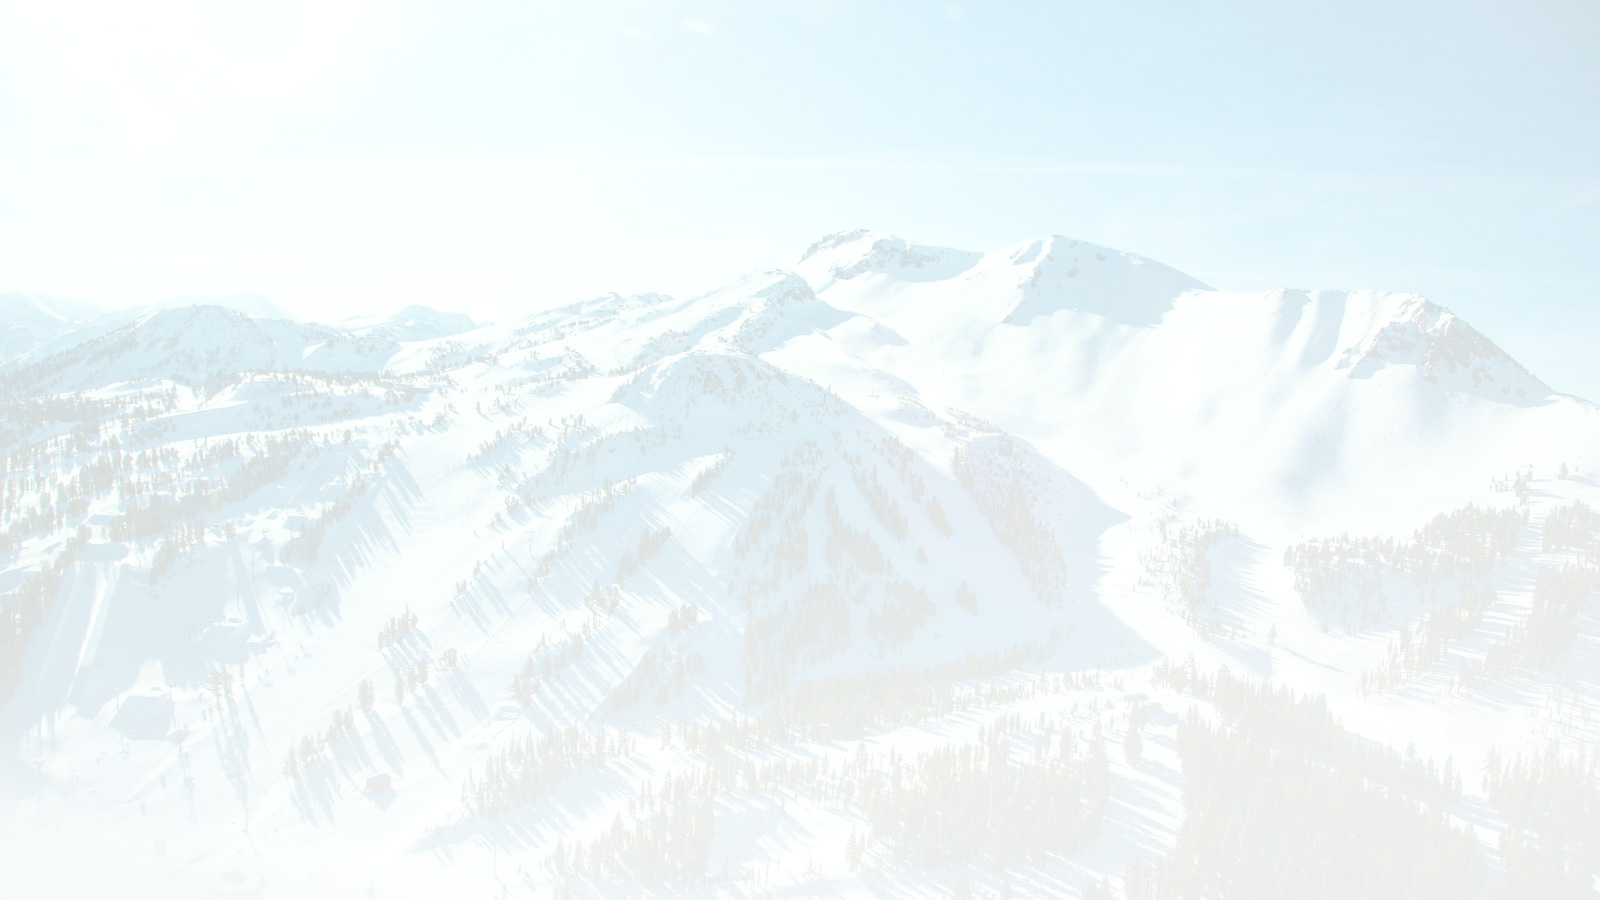
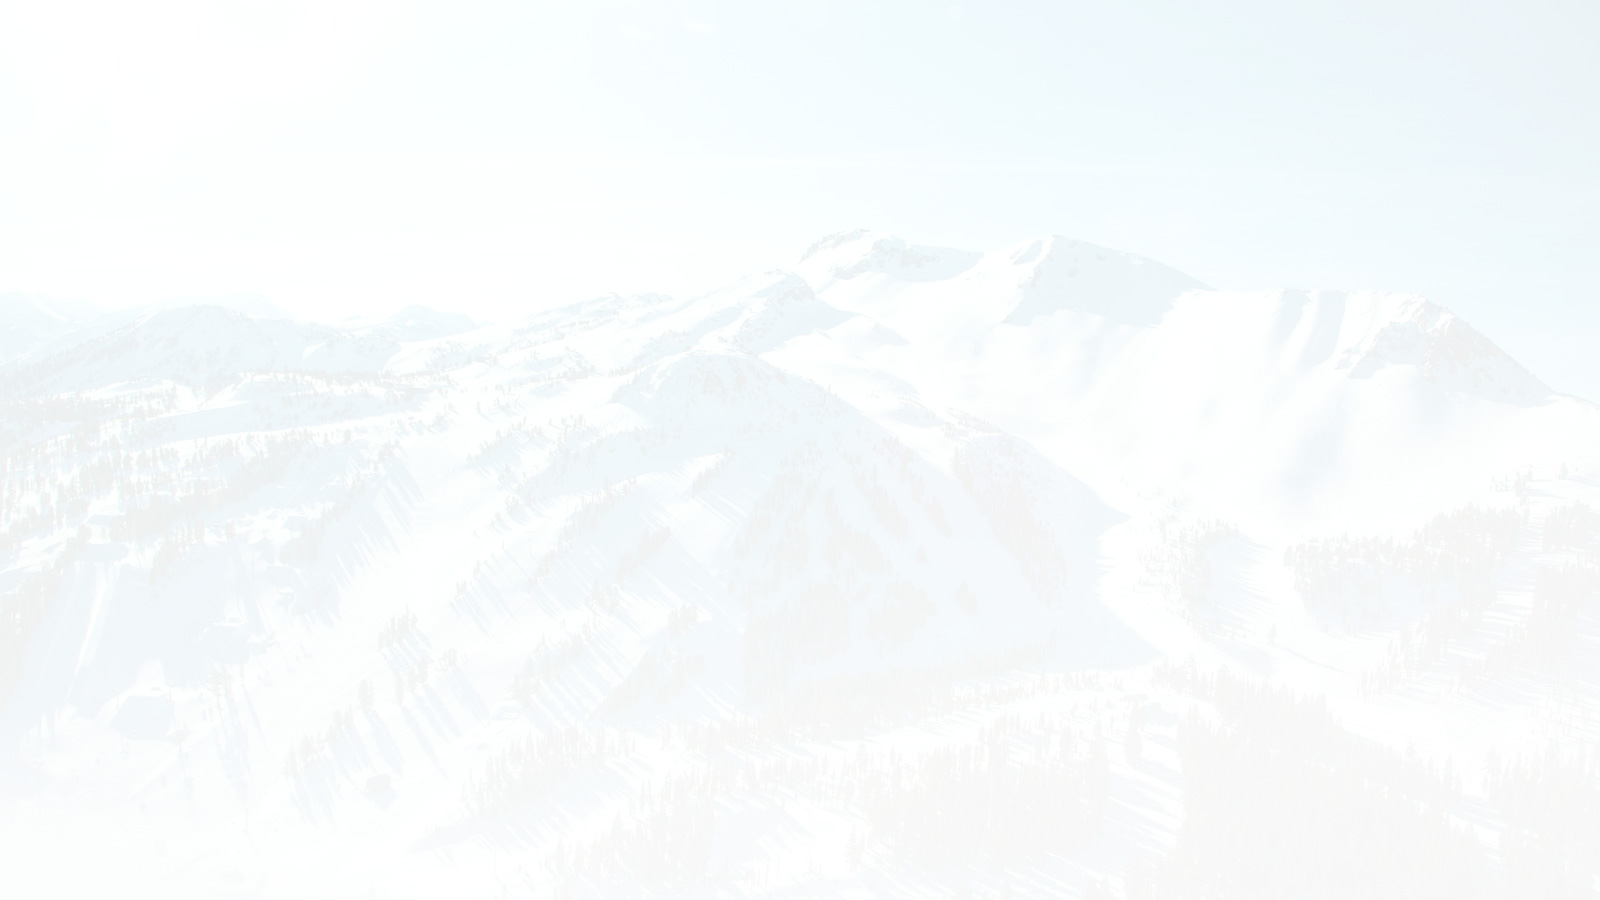
no message

Changed region(s): [[0.0, 0.3733, 0.0938, 0.4978], [0.9688, 0.0, 1.0, 0.1244], [0.5625, 0.28, 0.5938, 0.3111]]

diff --git a/public/playground/demo4.htm b/public/playground/demo4.htm
@@ -17,7 +17,7 @@
 			}
 			
 			body {
-				background: #ffffff url(mammoth.jpg) no-repeat;
+				background: #ffffff url(bg.jpg) no-repeat;
 				background-size: cover;
 				margin: 0;
 				padding: 0;
